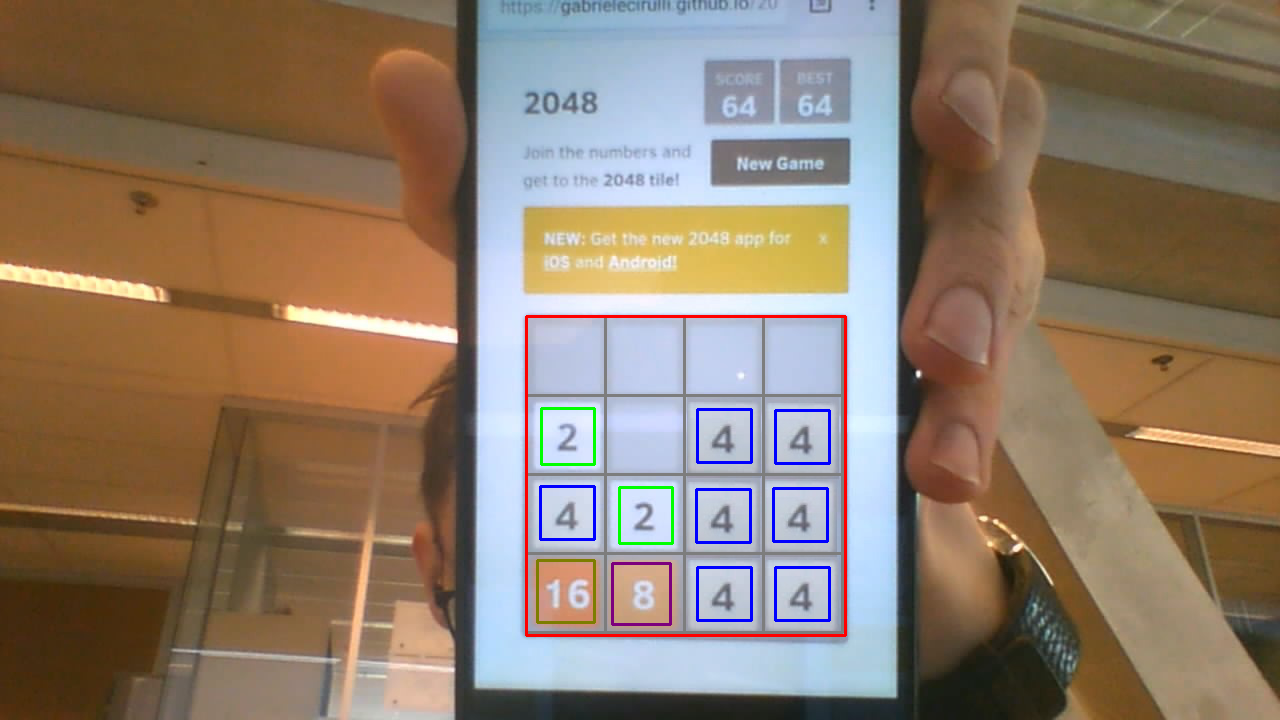
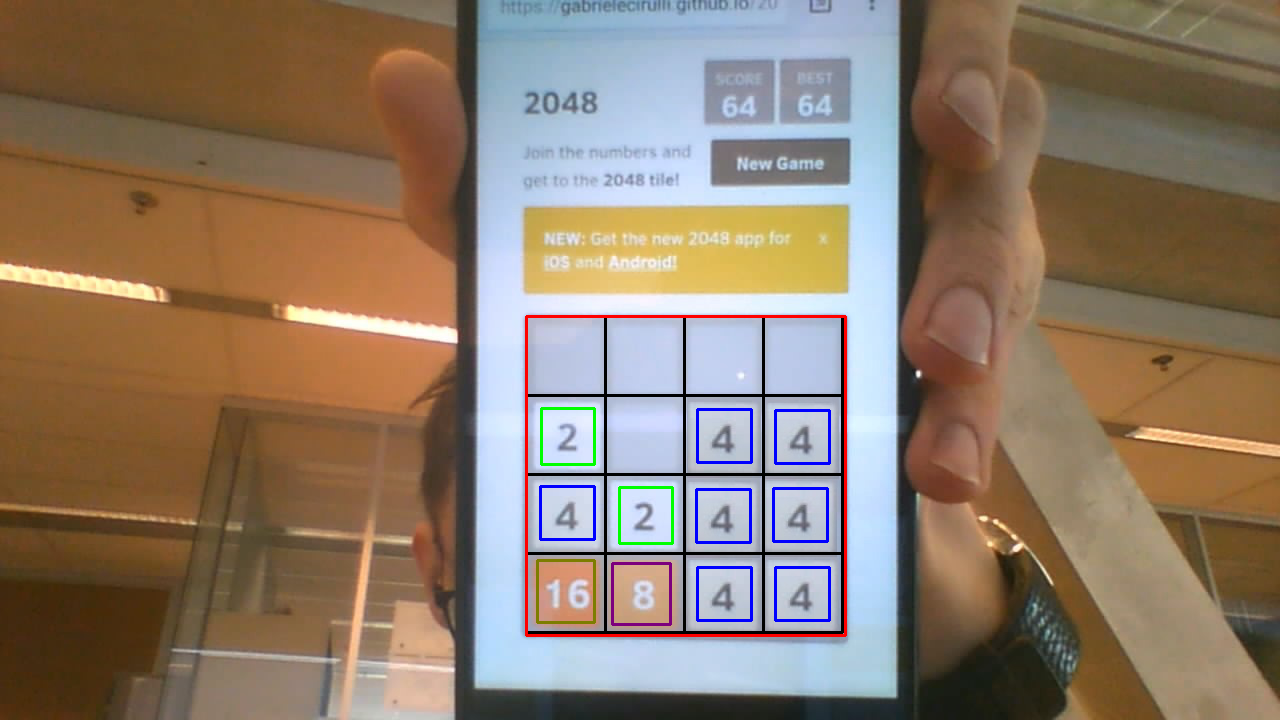
vision grid

diff --git a/robotVision/detection.py b/robotVision/detection.py
@@ -12,6 +12,8 @@ template3 = cv2.imread('templates/template_field.png',0)
 template4 = cv2.imread('templates/template_8_big.png',0)
 template5 = cv2.imread('templates/template_16_big.png',0)
 
+grid = []
+
 
 
 
@@ -44,14 +46,24 @@ def getField(fieldTemplate):
 
     pt = zip(*loc[::-1])[0]
 
+    
     print(blockWidth, blockHeigth)
     for x in range(1,5):
         for y in range (1,5):
-            cv2.rectangle(img_rgb , pt , (pt[0] + (blockWidth * x)  , pt[1] + (blockHeigth * y)), (125,125,125) , 2)
+            #grid.append(pt)
+            grid.append((pt ,(pt[0] + (blockWidth * x), pt[1] + (blockHeigth * y))))
+            #cv2.rectangle(img_rgb , pt , (pt[0] + (blockWidth * x)  , pt[1] + (blockHeigth * y)), (125,125,125) , 2)
 
-
+    print(grid)
+    drawGrid(grid,blockWidth, blockHeigth)
         
 
+def drawGrid(grid, blockWidth, blockHeigth):
+    for pt in grid:
+        #cv2.rectangle(img_rgb,pt, ( pt[0] + blockWidth  , pt[1] +blockHeigth ), (0,0,0), 2)
+        cv2.rectangle(img_rgb,pt[0], pt[1], (0,0,0), 2)
+    
+    
 
 
 
